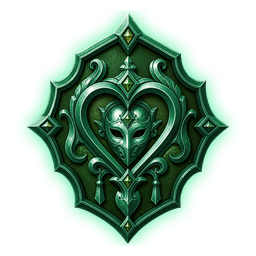
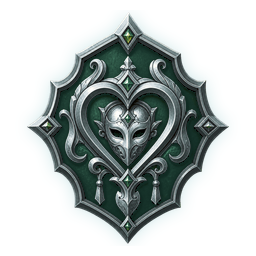
feat: add prestige system with new assets and UI components

diff --git a/apps/portal/web/src/components/PrestigeEvolution.tsx b/apps/portal/web/src/components/PrestigeEvolution.tsx
@@ -1,0 +1,91 @@
+"use client";
+
+import { useEffect, useState, type CSSProperties } from "react";
+import { PrestigeBadge } from "@/components/PrestigeBadge";
+import { Button } from "@/components/ui/Button";
+import { MAX_CHARACTER_LEVEL, prestigeTierForLevel, prestigeTiers } from "@/data/game-classes";
+
+export function PrestigeEvolution() {
+  const [level, setLevel] = useState(0);
+  const [playing, setPlaying] = useState(true);
+  const tier = prestigeTierForLevel(level);
+  const nextTier = prestigeTiers.find(item => item.level > level);
+
+  useEffect(() => {
+    const reducedMotion = window.matchMedia("(prefers-reduced-motion: reduce)");
+    if (reducedMotion.matches) {
+      const reducedTimer = window.setTimeout(() => {
+        setLevel(MAX_CHARACTER_LEVEL);
+        setPlaying(false);
+      }, 0);
+      return () => window.clearTimeout(reducedTimer);
+    }
+    if (!playing) return;
+
+    let timer: number | undefined;
+    const start = () => {
+      timer = window.setInterval(() => {
+        setLevel(current => current >= MAX_CHARACTER_LEVEL ? 0 : current + 1);
+      }, 145);
+    };
+    if (document.readyState === "complete") start();
+    else window.addEventListener("load", start, { once: true });
+
+    return () => {
+      window.removeEventListener("load", start);
+      if (timer !== undefined) window.clearInterval(timer);
+    };
+  }, [playing]);
+
+  const meterStyle = { "--prestige-progress": `${level / MAX_CHARACTER_LEVEL * 100}%` } as CSSProperties;
+
+  return (
+    <div className="mx-auto mt-16 w-[min(1180px,100%)]" data-testid="prestige-evolution">
+      <div className="grid grid-cols-[.88fr_1.12fr] items-center gap-14 border-y border-[#947a44] bg-[#092f29] px-[clamp(1.25rem,4vw,4rem)] py-10 text-[#edf1e7] shadow-[0_24px_50px_rgba(31,61,49,.18)] max-[800px]:grid-cols-1 max-[800px]:gap-5">
+        <div className="relative mx-auto grid w-[min(430px,88vw)] place-items-center">
+          <div className="absolute size-[73%] rotate-45 border border-[#ceb975]/30 bg-[#0b463a]/45 shadow-[inset_0_0_50px_rgba(255,255,255,.05)]" style={{ boxShadow: `inset 0 0 50px rgba(255,255,255,.05), 0 0 55px color-mix(in srgb, ${tier.color}, transparent 62%)` }} aria-hidden="true" />
+          <PrestigeBadge classId="warrior" className="w-full drop-shadow-[0_24px_28px_rgba(1,13,11,.65)]" level={level} selected priority />
+        </div>
+        <div className="text-left max-[800px]:text-center">
+          <p className="text-xs uppercase tracking-[.2em] text-[#cdb778]">Nível atual</p>
+          <div className="mt-2 flex items-end gap-5 max-[800px]:justify-center">
+            <strong className="text-[clamp(4.5rem,10vw,8rem)] font-normal leading-none text-white">{level}</strong>
+            <span className="mb-3 text-sm uppercase tracking-[.14em] text-[#9db6aa]">de {MAX_CHARACTER_LEVEL}</span>
+          </div>
+          <p className="mt-5 text-xs uppercase tracking-[.18em]" style={{ color: tier.color }}>{tier.stage}</p>
+          <h3 className="mt-2 text-[clamp(2.6rem,5vw,4.8rem)] leading-[.86] text-[#f4efdc]">{tier.name}</h3>
+          <p className="mt-5 max-w-xl text-base leading-7 text-[#c5d5ca] max-[800px]:mx-auto">{tier.description}</p>
+          <p className="mt-5 text-sm text-[#91a99e]">{nextTier ? `A cor já começa a avançar para ${nextTier.name}, conquistada no nível ${nextTier.level}.` : "O brasão alcançou sua forma lendária definitiva."}</p>
+          <div className="mt-8 flex items-center gap-4 max-[800px]:justify-center max-[520px]:flex-col">
+            <Button onClick={() => {
+              if (!playing && level >= MAX_CHARACTER_LEVEL) setLevel(0);
+              setPlaying(current => !current);
+            }}>{playing ? "Pausar evolução" : "Reproduzir evolução"}</Button>
+            <label className="grid min-w-[240px] gap-2 text-[.65rem] uppercase tracking-[.12em] text-[#a8bcb1] max-[520px]:w-full">
+              Escolher nível
+              <input className="accent-[#78b79a]" type="range" min="0" max={MAX_CHARACTER_LEVEL} value={level} onChange={event => { setPlaying(false); setLevel(Number(event.target.value)); }} />
+            </label>
+          </div>
+        </div>
+      </div>
+
+      <div className="prestige-meter mt-7 overflow-x-auto pb-3" style={meterStyle}>
+        <div className="relative grid min-w-[930px] grid-cols-11 gap-2 before:absolute before:left-[4.5%] before:right-[4.5%] before:top-[15px] before:h-px before:bg-[linear-gradient(90deg,#a96743_var(--prestige-progress),#b9aa7d55_var(--prestige-progress))]">
+          {prestigeTiers.map(item => (
+            <button
+              className="relative z-10 grid cursor-pointer justify-items-center gap-2 border-0 bg-transparent text-[#566d63] focus-visible:text-[#173b32]"
+              key={item.id}
+              type="button"
+              onClick={() => { setPlaying(false); setLevel(item.level); }}
+              aria-label={`Exibir ${item.name}, nível ${item.level}`}
+            >
+              <span className="size-8 rotate-45 border border-[#9d8755] bg-[#f4efde] shadow-[inset_0_0_0_5px_#e5dfca]" style={level >= item.level ? { background: item.color, boxShadow: `inset 0 0 0 5px #f4efde, 0 0 12px ${item.color}` } : undefined} />
+              <span className="text-[.62rem] uppercase tracking-[.08em]">{item.level}</span>
+              <strong className="text-xs font-normal">{item.name}</strong>
+            </button>
+          ))}
+        </div>
+      </div>
+    </div>
+  );
+}

diff --git a/apps/portal/web/src/data/game-classes.ts b/apps/portal/web/src/data/game-classes.ts
@@ -23,11 +23,41 @@ export const gameClasses: readonly GameClass[] = [
 ] as const;
 
 export const prestigeTiers = [
-  { id: "bronze", name: "Bronze", stage: "O chamado", description: "Todo viajante começa formando sua identidade e aprendendo o caminho da classe." },
-  { id: "silver", name: "Prata", stage: "A experiência", description: "A jornada ganha forma e o brasão passa a registrar domínio e constância." },
-  { id: "gold", name: "Ouro", stage: "O reconhecimento", description: "O personagem deixa sua marca nos reinos e carrega um símbolo mais nobre." },
-  { id: "jade", name: "Jade", stage: "A ascensão", description: "O prestígio máximo transforma o brasão na expressão viva da trajetória do personagem." },
+  { id: "bronze", name: "Bronze", level: 10, color: "#a96743", stage: "O primeiro passo", description: "O chamado ganha forma e o primeiro brasão reconhece o caminho escolhido." },
+  { id: "silver", name: "Prata", level: 20, color: "#b9c8cb", stage: "A disciplina", description: "Técnica e constância começam a aparecer no metal da insígnia." },
+  { id: "gold", name: "Ouro", level: 30, color: "#d2a53f", stage: "O reconhecimento", description: "O personagem deixa sua primeira marca permanente nos reinos." },
+  { id: "platinum", name: "Platina", level: 40, color: "#d6e2e4", stage: "O domínio", description: "A experiência refina o brasão até um brilho frio e preciso." },
+  { id: "topaz", name: "Topázio", level: 50, color: "#d8842e", stage: "A chama", description: "A vontade do viajante passa a irradiar calor através da insígnia." },
+  { id: "amethyst", name: "Ametista", level: 60, color: "#955dcc", stage: "A visão arcana", description: "O brasão registra uma ligação mais profunda com a energia dos reinos." },
+  { id: "obsidian", name: "Obsidiana", level: 70, color: "#536172", stage: "A resistência", description: "Escuro e lapidado, o símbolo carrega a força de quem não cedeu." },
+  { id: "jade", name: "Jade", level: 80, color: "#679a84", stage: "A harmonia", description: "A pedra mineral revela equilíbrio, experiência e controle." },
+  { id: "ruby", name: "Rubi", level: 90, color: "#bd334c", stage: "A conquista", description: "O vermelho profundo registra feitos que já atravessaram os reinos." },
+  { id: "fernandium", name: "Fernandium", level: 100, color: "#5f88a6", stage: "O legado", description: "Um metal arcano raro, reservado aos nomes que se tornaram história." },
+  { id: "miriamite", name: "Miriamita", level: 110, color: "#eadfd3", stage: "A transcendência", description: "O mineral lendário transforma toda a jornada em luz, memória e permanência." },
 ] as const;
+
+export const MAX_CHARACTER_LEVEL = prestigeTiers.at(-1)!.level;
+export type PrestigeTier = (typeof prestigeTiers)[number];
+
+export function prestigeTierForLevel(value: number): PrestigeTier {
+  const level = Math.min(MAX_CHARACTER_LEVEL, Math.max(0, Math.floor(value)));
+  const attained = [...prestigeTiers].reverse().find(tier => level >= tier.level);
+  return attained ?? prestigeTiers[0];
+}
+
+export function prestigeBlendForLevel(value: number) {
+  const level = Math.min(MAX_CHARACTER_LEVEL, Math.max(0, value));
+  if (level <= prestigeTiers[0].level) {
+    return { from: prestigeTiers[0], to: prestigeTiers[0], progress: level / prestigeTiers[0].level };
+  }
+
+  const exact = prestigeTiers.find(tier => tier.level === level);
+  if (exact) return { from: exact, to: exact, progress: 1 };
+
+  const from = prestigeTierForLevel(level);
+  const to = prestigeTiers.find(tier => tier.level > level) ?? from;
+  return { from, to, progress: (level - from.level) / (to.level - from.level || 1) };
+}
 
 export function classHref(gameClass: GameClass) {
   return `/classes/${gameClass.slug}`;

diff --git a/apps/portal/web/src/app/page.tsx b/apps/portal/web/src/app/page.tsx
@@ -6,8 +6,9 @@ import { useGameServers } from "@/api/game-servers/get-game-servers";
 import { useLatestRelease } from "@/api/releases/get-latest-release";
 import { SiteFooter } from "@/components/SiteFooter";
 import { SiteHeader } from "@/components/SiteHeader";
+import { PrestigeEvolution } from "@/components/PrestigeEvolution";
 import { buttonStyles } from "@/components/ui/Button";
-import { classHref, gameClasses, prestigeTiers } from "@/data/game-classes";
+import { classHref, gameClasses } from "@/data/game-classes";
 import { routes } from "@/routes";
 
 function formatBytes(bytes: number) {
@@ -104,22 +105,8 @@ export default function HomePage() {
 
         <section className="overflow-hidden bg-[linear-gradient(180deg,#ececdd,#f8f1de)] px-6 py-32 text-[#183a32] max-[700px]:px-4 max-[700px]:py-24" id="prestigio">
           <ChapterTitle eyebrow="Ascensão do brasão">Sua força tem nível.<br />Sua jornada tem prestígio.</ChapterTitle>
-          <p className="mx-auto mt-8 max-w-3xl text-center text-lg leading-8 text-[#526b61]">O nível representa o desenvolvimento do personagem dentro do jogo. O prestígio registra o caminho percorrido e transforma visualmente o brasão da classe — de Bronze até Jade.</p>
-          <div className="mx-auto mt-20 grid w-[min(1200px,100%)] grid-cols-4 gap-4 max-[900px]:grid-cols-2 max-[520px]:grid-cols-1">
-            {prestigeTiers.map((tier, index) => (
-              <article className="relative border-y border-[#907640] bg-[#f4efde] px-6 pb-8 pt-4 text-center shadow-[0_18px_35px_rgba(31,61,49,.12)]" key={tier.id}>
-                <span className="absolute left-4 top-4 font-miraj-of-icarus text-xs text-[#9b824e]">0{index + 1}</span>
-                <Image className="mx-auto h-48 w-48 object-contain" src={`/media/game-ui/classes/${tier.id}/warrior${index === 3 ? "-selected" : ""}.png`} alt={`Brasão Guerreiro em prestígio ${tier.name}`} width={256} height={256} />
-                <p className="font-miraj-of-icarus text-[.65rem] uppercase tracking-[.18em] text-[#16834f]">{tier.stage}</p>
-                <h3 className="my-2 font-miraj-of-icarus text-4xl">{tier.name}</h3>
-                <p className="text-sm leading-6 text-[#607268]">{tier.description}</p>
-              </article>
-            ))}
-          </div>
-          <div className="mx-auto mt-12 max-w-4xl border-y border-[#967b45] bg-[#0a3a35] px-8 py-7 text-center text-[#e5eee4] shadow-[inset_0_0_0_4px_rgba(40,185,111,.13)]">
-            <strong className="font-miraj-of-icarus text-xl uppercase tracking-[.08em] text-[#a1e5bb]">Uma identidade que cresce com você</strong>
-            <p className="mt-2 text-sm leading-6 text-[#c8d8cc]">O estado iluminado indica apenas a seleção na interface. Bronze, Prata, Ouro e Jade representam os quatro estágios reais da progressão visual.</p>
-          </div>
+          <p className="mx-auto mt-8 max-w-3xl text-center text-lg leading-8 text-[#526b61]">A cada dez níveis, o personagem conquista um novo material. Durante a evolução, a própria insígnia muda gradualmente de cor e registra o nível alcançado — de Bronze à lendária Miriamita.</p>
+          <PrestigeEvolution />
         </section>
 
         <section className="relative isolate overflow-hidden bg-[#052720] px-6 py-28 text-center text-white max-[700px]:px-4" id="reinos">

diff --git a/apps/portal/web/src/app/classes/[slug]/page.tsx b/apps/portal/web/src/app/classes/[slug]/page.tsx
@@ -1,8 +1,8 @@
-import Image from "next/image";
 import Link from "next/link";
 import { notFound } from "next/navigation";
 import { SiteFooter } from "@/components/SiteFooter";
 import { SiteHeader } from "@/components/SiteHeader";
+import { PrestigeBadge } from "@/components/PrestigeBadge";
 import { buttonStyles } from "@/components/ui/Button";
 import { classHref, findGameClass, gameClasses, prestigeTiers } from "@/data/game-classes";
 import { routes } from "@/routes";
@@ -39,7 +39,7 @@ export default async function ClassPage({ params }: { params: Promise<{ slug: st
           </div>
           <div className="relative grid min-h-[580px] place-items-center max-[700px]:min-h-[390px]">
             <div className="absolute size-[72%] rotate-45 border border-[#a9dcb9]/20 bg-[#0c4b3c]/16 shadow-[0_0_65px_rgba(40,185,111,.18)]" aria-hidden="true" />
-            <Image className="relative h-auto w-[min(540px,88vw)] object-contain drop-shadow-[0_30px_35px_rgba(1,13,11,.75)]" src={`/media/game-ui/classes/jade/${gameClass.id}-selected.png`} alt={`Brasão Jade de ${gameClass.name}`} width={256} height={256} priority />
+            <PrestigeBadge classId={gameClass.id} className="relative w-[min(540px,88vw)] drop-shadow-[0_30px_35px_rgba(1,13,11,.75)]" level={110} selected priority />
           </div>
         </div>
       </section>
@@ -65,13 +65,13 @@ export default async function ClassPage({ params }: { params: Promise<{ slug: st
 
         <section className="bg-[#052720] px-6 py-28 text-center max-[700px]:px-4 max-[700px]:py-20">
           <p className="font-miraj-of-icarus text-xs uppercase tracking-[.22em] text-[#92e5b2]">Ascensão do brasão</p>
-          <h2 className="mx-auto mt-5 max-w-4xl font-miraj-of-icarus text-[clamp(3.2rem,6vw,6rem)] leading-[.84] text-[#f4efdc]">Uma identidade. Quatro momentos.</h2>
-          <div className="mx-auto mt-16 grid w-[min(1120px,100%)] grid-cols-4 gap-3 max-[850px]:grid-cols-2 max-[480px]:grid-cols-1">
+          <h2 className="mx-auto mt-5 max-w-4xl font-miraj-of-icarus text-[clamp(3.2rem,6vw,6rem)] leading-[.84] text-[#f4efdc]">Uma identidade. Onze conquistas.</h2>
+          <div className="mx-auto mt-16 grid w-[min(1220px,100%)] grid-cols-4 gap-3 max-[950px]:grid-cols-3 max-[700px]:grid-cols-2 max-[430px]:grid-cols-1">
             {prestigeTiers.map(tier => (
               <article className="border-y border-[#8e7848] bg-[#072f28] px-4 pb-7 pt-3" key={tier.id}>
-                <Image className="mx-auto size-52 object-contain" src={`/media/game-ui/classes/${tier.id}/${gameClass.id}.png`} alt={`Prestígio ${tier.name}`} width={256} height={256} />
+                <PrestigeBadge classId={gameClass.id} className="mx-auto size-52" level={tier.level} />
                 <h3 className="font-miraj-of-icarus text-3xl text-[#f1ebda]">{tier.name}</h3>
-                <p className="mt-2 text-sm text-[#aacab7]">{tier.stage}</p>
+                <p className="mt-2 text-sm text-[#aacab7]">Nível {tier.level} · {tier.stage}</p>
               </article>
             ))}
           </div>

diff --git a/apps/portal/web/src/components/PrestigeBadge.tsx b/apps/portal/web/src/components/PrestigeBadge.tsx
@@ -1,0 +1,55 @@
+import Image from "next/image";
+import type { CSSProperties } from "react";
+import { MAX_CHARACTER_LEVEL, prestigeBlendForLevel, prestigeTierForLevel } from "@/data/game-classes";
+
+type PrestigeBadgeProps = {
+  classId: string;
+  level: number;
+  selected?: boolean;
+  className?: string;
+  priority?: boolean;
+};
+
+export function PrestigeBadge({ classId, level, selected = false, className = "", priority = false }: PrestigeBadgeProps) {
+  const normalizedLevel = Math.max(0, Math.min(MAX_CHARACTER_LEVEL, Math.floor(level)));
+  const blend = prestigeBlendForLevel(normalizedLevel);
+  const tier = prestigeTierForLevel(normalizedLevel);
+  const suffix = selected ? "-selected" : "";
+  const initialBrightness = normalizedLevel < 10 ? 0.55 + blend.progress * 0.45 : 1;
+  const style = { "--prestige-color": tier.color } as CSSProperties;
+
+  return (
+    <div
+      className={`prestige-badge relative aspect-square shrink-0 ${className}`}
+      data-level={normalizedLevel}
+      data-tier={tier.id}
+      style={style}
+      aria-label={`${tier.name}, nível ${normalizedLevel}`}
+    >
+      <Image
+        className="absolute inset-0 size-full object-contain transition-[filter] duration-300"
+        style={{ filter: `brightness(${initialBrightness}) saturate(${0.45 + blend.progress * 0.55})` }}
+        src={`/media/game-ui/classes/${blend.from.id}/${classId}${suffix}.png`}
+        alt=""
+        width={256}
+        height={256}
+        priority={priority}
+        unoptimized
+      />
+      {blend.to.id !== blend.from.id && (
+        <Image
+          className="absolute inset-0 size-full object-contain transition-opacity duration-300"
+          style={{ opacity: blend.progress }}
+          src={`/media/game-ui/classes/${blend.to.id}/${classId}${suffix}.png`}
+          alt=""
+          width={256}
+          height={256}
+          unoptimized
+        />
+      )}
+      <span className="prestige-badge__level absolute bottom-[8%] left-1/2 z-10 grid min-w-[2.25em] -translate-x-1/2 place-items-center px-[.42em] py-[.18em] text-[clamp(.62rem,14cqi,1rem)] font-semibold leading-none text-white [text-shadow:0_2px_3px_#020b09]">
+        {normalizedLevel}
+      </span>
+    </div>
+  );
+}

diff --git a/apps/portal/web/tests/e2e/portal.spec.ts b/apps/portal/web/tests/e2e/portal.spec.ts
@@ -12,6 +12,7 @@ test("landing apresenta o portal, as classes, o prestígio e o estado seguro de 
   await expect(page.getByRole("heading", { name: /Um reino acima das nuvens/i })).toBeVisible();
   await expect(page.getByRole("heading", { name: /Escolha seu caminho/i })).toBeVisible();
   await expect(page.getByRole("heading", { name: /Sua força tem nível/i })).toBeVisible();
+  await expect(page.getByTestId("prestige-evolution")).toBeVisible();
   await expect(page.getByText("Release em preparação")).toBeVisible();
   await expect(page.locator("body")).toHaveCSS("background-color", "rgb(6, 31, 32)");
 });
@@ -26,6 +27,20 @@ test("cada uma das oito classes possui uma página própria", async ({ page }) =
   await expect(page.getByText("Prata", { exact: true })).toBeVisible();
   await expect(page.getByText("Ouro", { exact: true })).toBeVisible();
   await expect(page.getByText("Jade", { exact: true })).toBeVisible();
+  await expect(page.getByText("Fernandium", { exact: true })).toBeVisible();
+  await expect(page.getByText("Miriamita", { exact: true })).toBeVisible();
+  await expect(page.getByText(/Nível 110 · A transcendência/)).toBeVisible();
+});
+
+test("insígnia registra o nível e mistura os materiais entre dois marcos", async ({ page }) => {
+  await page.goto("/");
+  const evolution = page.getByTestId("prestige-evolution");
+  await evolution.getByLabel("Escolher nível").fill("55");
+  const badge = evolution.locator('[data-level="55"]');
+  await expect(badge).toBeVisible();
+  await expect(badge.locator('img[src*="/topaz/"]')).toBeVisible();
+  await expect(badge.locator('img[src*="/amethyst/"]')).toBeVisible();
+  await expect(badge.getByText("55", { exact: true })).toBeVisible();
 });
 
 test("botões usam focused somente enquanto o ponteiro está sobre eles", async ({ page }) => {
@@ -111,4 +126,5 @@ test("movimento reduzido desativa a chegada cinematográfica", async ({ page }) 
     (element) => Number.parseFloat(getComputedStyle(element).animationDuration),
   );
   expect(duration).toBeLessThan(.001);
+  await expect(page.getByTestId("prestige-evolution").locator('[data-level="110"]')).toBeVisible();
 });

diff --git a/apps/portal/web/src/components/CharacterPanel.tsx b/apps/portal/web/src/components/CharacterPanel.tsx
@@ -7,6 +7,7 @@ import { useDeleteCharacter } from "@/api/characters/delete-character";
 import { useCharacters, type Character } from "@/api/characters/get-characters";
 import { useRestoreCharacter } from "@/api/characters/restore-character";
 import { ApiError } from "@/api/http";
+import { PrestigeBadge } from "@/components/PrestigeBadge";
 import { Alert } from "@/components/ui/Alert";
 import { Button } from "@/components/ui/Button";
 import { Input } from "@/components/ui/Input";
@@ -80,7 +81,7 @@ export function CharacterPanel({ enabled }: { enabled: boolean }) {
       <div className="grid grid-cols-2 gap-4 max-[900px]:grid-cols-1">
         {values.map(character => (
           <article className={`jade-card relative grid min-h-[280px] grid-cols-[76px_1fr] content-start gap-5 px-3 py-3 drop-shadow-[0_18px_28px_rgba(3,27,22,.3)] max-[620px]:grid-cols-[62px_1fr] max-[620px]:px-0 max-[620px]:py-2 ${character.deletionScheduledAt ? "opacity-75" : ""}`} key={character.id}>
-            <Image className="h-[71px] w-[71px] object-contain max-[620px]:size-[62px]" src={`/media/game-ui/classes/bronze/${character.archetype}.png`} alt="" width={256} height={256} />
+            <PrestigeBadge classId={character.archetype} className="size-[76px] max-[620px]:size-[64px]" level={character.level} />
             <div><p className="mb-1 text-xs uppercase tracking-[.14em] text-ancient-gold">{classes[character.archetype] ?? character.archetype} · Nível {character.level}</p><h3 className="mb-1 font-display text-3xl font-medium">{character.name}</h3><p className="text-xs text-mist">Criado em {formatDate(character.createdAt)}</p></div>
             {character.deletionScheduledAt ? (
               <div className="col-span-full mt-4 flex items-center justify-between gap-5 border-t border-moonsteel/20 pt-4 max-[620px]:flex-col max-[620px]:items-start">

diff --git a/apps/portal/web/src/app/globals.css b/apps/portal/web/src/app/globals.css
@@ -150,6 +150,17 @@
     padding: clamp(1.25rem, 2.4vw, 2rem);
   }
 
+  .prestige-badge {
+    container-type: inline-size;
+  }
+
+  .prestige-badge__level {
+    background: linear-gradient(180deg, color-mix(in srgb, var(--prestige-color) 72%, #16231f), #071713 78%);
+    border: 1px solid color-mix(in srgb, var(--prestige-color) 75%, #f4e8c0);
+    box-shadow: inset 0 0 0 2px #061a16, 0 0 10px color-mix(in srgb, var(--prestige-color) 62%, transparent);
+    clip-path: polygon(12% 0, 88% 0, 100% 30%, 92% 100%, 8% 100%, 0 30%);
+  }
+
   .auth-panel {
     border: 58px solid transparent;
     border-image-source: url("/media/game-ui/jade/auth-panel.png");
